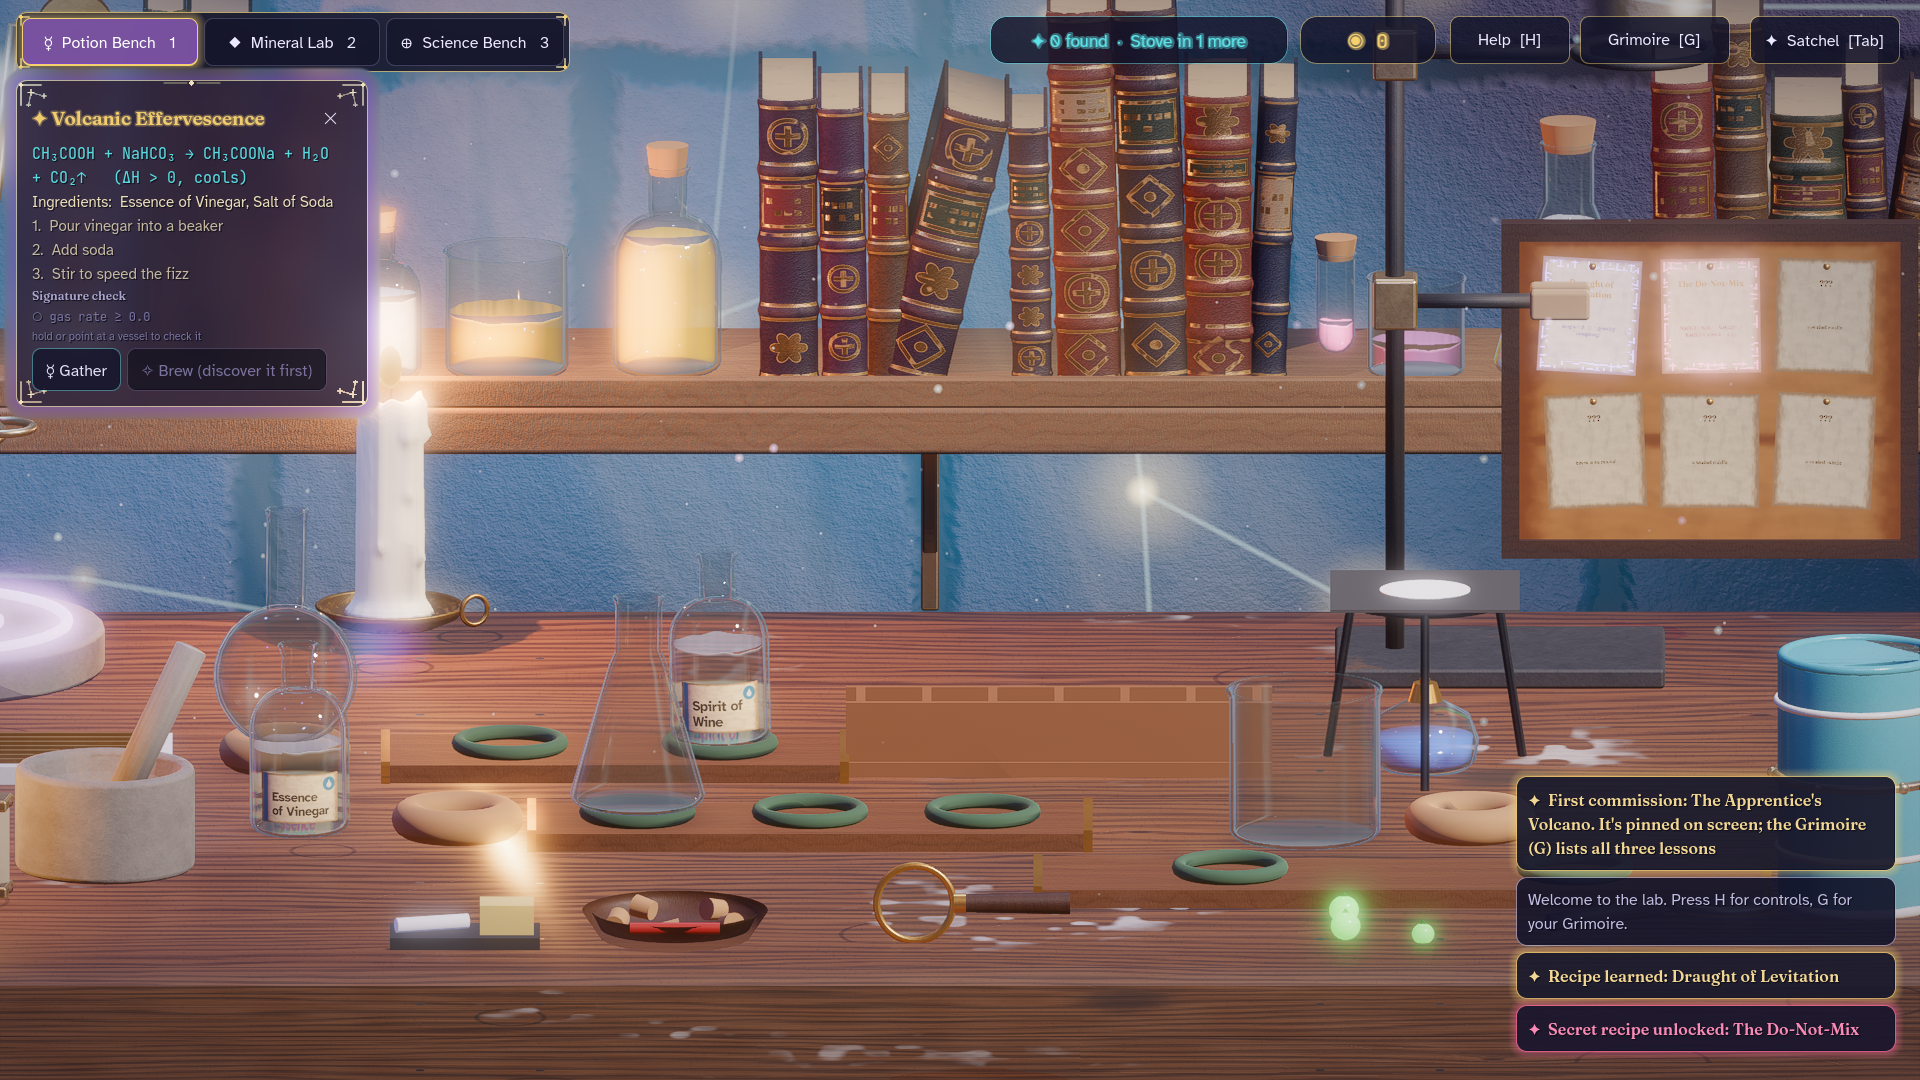
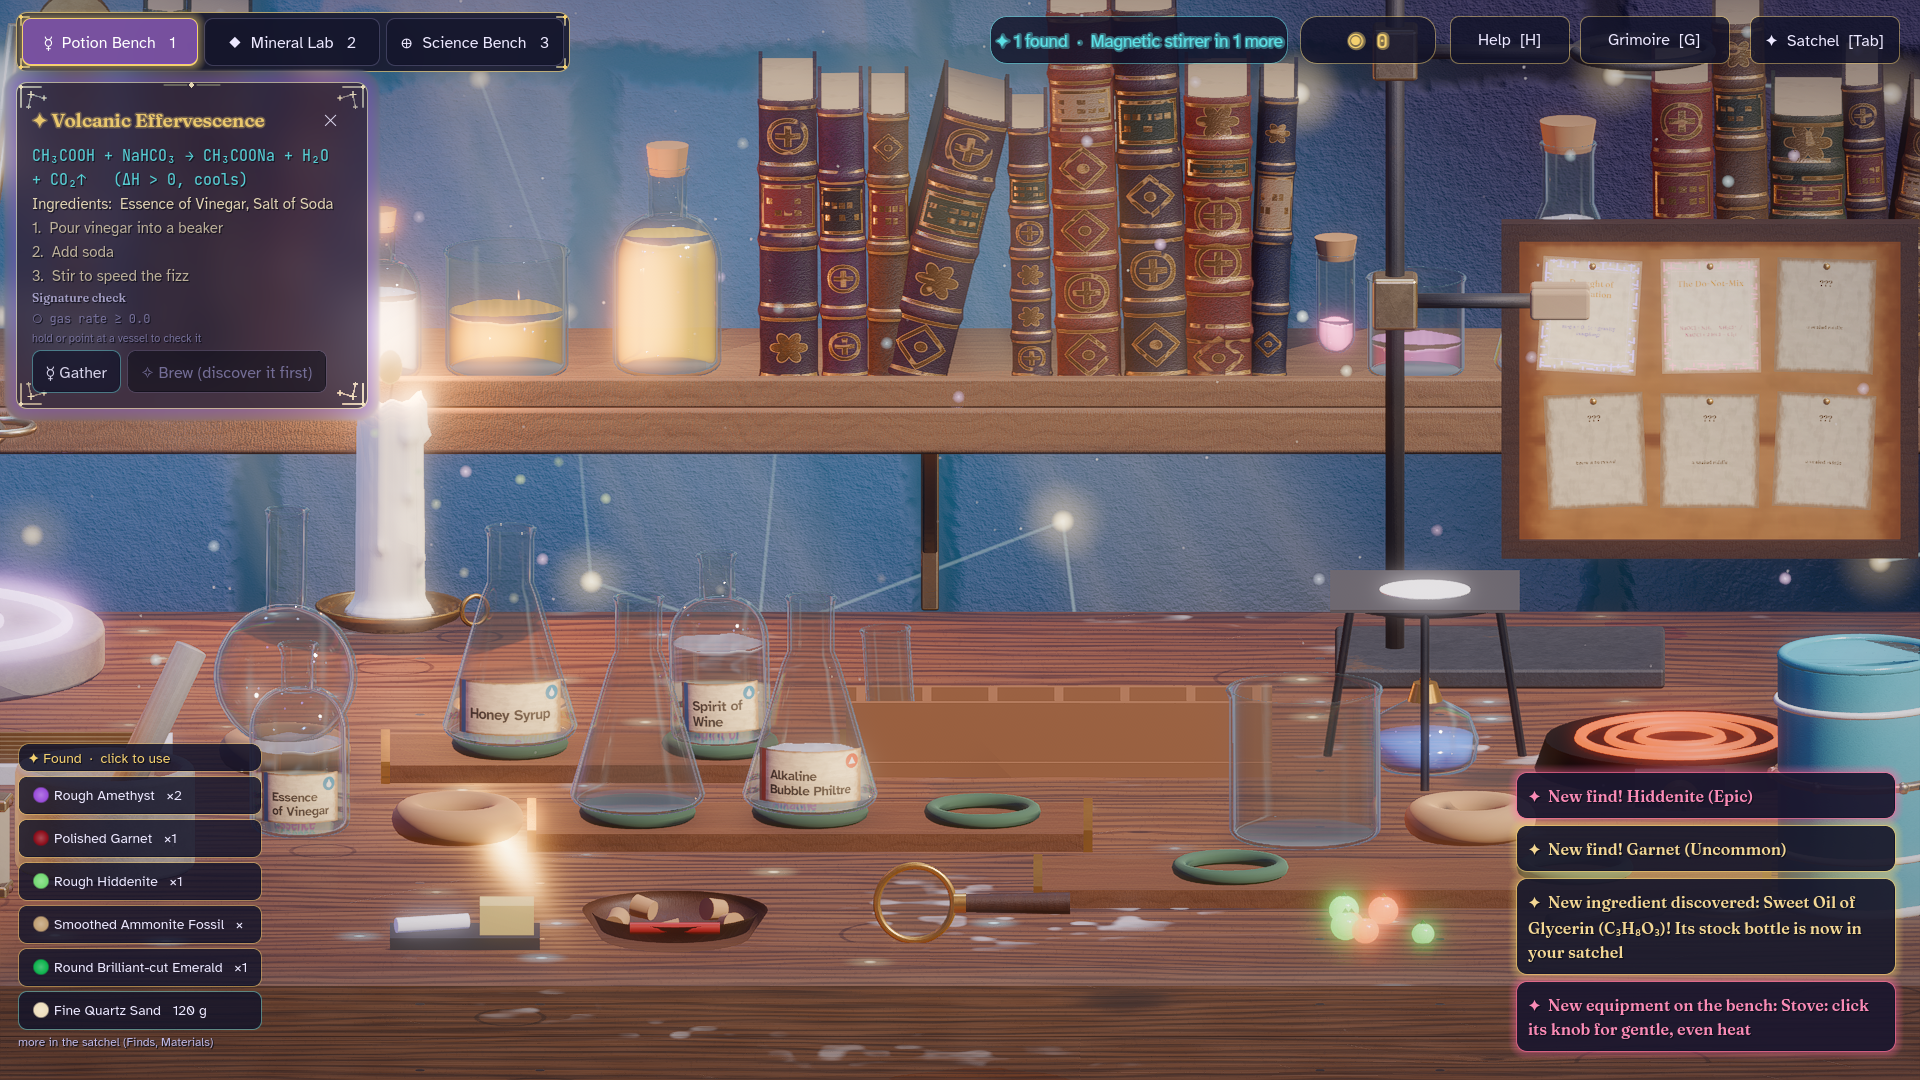
Found list, auto-packing at the Mineral Lab, deeper cosmic look, bigger starter kit
Leaving the Mineral Lab packs tray powders and loose finds into the satchel;
a Found list (bottom left) puts a scoop or stone in the hand with one click.
Aurora veils, sharper and denser wall stars, star specks in the bench top,
more motes. New labs also start with salt of soda, honey, soap, emberberries
and 60 coins.

diff --git a/CLAUDE.md b/CLAUDE.md
@@ -23,11 +23,11 @@ Every script, 3D scene (`.tscn`), resource (`.tres`), and shader (`.gdshader`) m
 
 > **Design audit (2026-11-21, docs/design_audit_handoff.md):** fonts bundled in `assets/fonts` (OFL; `CosmicTheme.display/body/mono/chalk/world_font`); toasts bottom-right; machine captions are `WorldPill` (shown while busy or for a few seconds after a change); bottle labels carry a category stamp (`label_icon.gdshader`). Every hotkey has a mouse prop: cork & wax dish, chalk + sponge (`BenchProps3D`), satchel edge tab, crate click loads the anvil, stirrer base click. `RecipeBook.proximity` scores how close a touched vessel is to an undiscovered recipe (shimmer >= 0.78, hint >= 0.92); recipes still only recognise results. `MagnifyingLens3D` + HUD lens panel. Rocks show a weak seam while the hammer aims (`Rock3D.seam_hit`, one-blow `critical_crack`); crusher flywheel and sifter momentum carry on after release. `GrimoireJournal.TUTORIAL_ORDERS` are three starter commissions. Check with `tests/perf/smoke_props.gd`. Rock collision hulls come from a vertex sample (`RockMeshes.hull_points`), never `create_convex_shape(true, true)` (50-80 ms per rock); `tests/perf/probe_lab_lag.gd` times rock spawns and cracks.
 
-> **Discovery mode (2026-11-21, owner request):** a new lab starts with a burner, a beaker, two empty flasks, the tap, vinegar, spirit of wine and glowberries (`DiscoveryProgress`, child of `GrimoireJournal`, saved in the `discovery` section of the grimoire save). Any substance that shows up in a vessel (>= 0.8 g) is learned and its satchel stock unlocks; locked satchel rows read "???" with a hint derived from data (`hint_for`: which rock crushes to which powder, and whether it dissolves in water or reacts with vinegar), or a coin price when no mineral route exists. Discoveries unlock equipment (`EQUIPMENT_STEPS`: stove, stirrer, tools) and glassware counts. Mineral routes are ordinary substance data (`tools/substances_minerals.py` PATCH: rock salt -> brine, luminite -> moonwater, firepepper -> salamander oil; halite rock crust carries salt of soda). Off for tests and demo renders (launch args); `tests/perf/smoke_discovery.gd` turns it on with `persist = false`. The Mineral Lab only hands out rocks, sand bags, finds, empty glass and the lens (`InventoryStore.station_block_reason`); a satchel click puts the item in the hand; machine intakes push out what they don't take (`MachineIntake.wants`).
+> **Discovery mode (2026-11-21, owner request):** a new lab starts with a burner, a beaker, two empty flasks, the tap, vinegar, spirit of wine, salt of soda, honey, soap, glowberries, emberberries and 60 coins (`STARTER_SUBSTANCES`, `STARTER_COINS`) (`DiscoveryProgress`, child of `GrimoireJournal`, saved in the `discovery` section of the grimoire save). Any substance that shows up in a vessel (>= 0.8 g) is learned and its satchel stock unlocks; locked satchel rows read "???" with a hint derived from data (`hint_for`: which rock crushes to which powder, and whether it dissolves in water or reacts with vinegar), or a coin price when no mineral route exists. Discoveries unlock equipment (`EQUIPMENT_STEPS`: stove, stirrer, tools) and glassware counts. Mineral routes are ordinary substance data (`tools/substances_minerals.py` PATCH: rock salt -> brine, luminite -> moonwater, firepepper -> salamander oil; halite rock crust carries salt of soda). Off for tests and demo renders (launch args); `tests/perf/smoke_discovery.gd` turns it on with `persist = false`. The Mineral Lab only hands out rocks, sand bags, finds, empty glass and the lens (`InventoryStore.station_block_reason`); a satchel click puts the item in the hand; machine intakes push out what they don't take (`MachineIntake.wants`).
 
 > **Cinematics & labels (2026-11-21):** `GemShowcase.play(stone, kicker, title, subtitle, rarity)` shows a hero shot in its own studio world (softbox sky `studio_sky.gdshader`, velvet backdrop, letterbox, title card); played when a gem is faceted and for special finds (Epic+, a new Rare, a first fossil). Off under `--script`. `FacetLoupe` is the round close-up inset while a stone is on the polisher or faceter. Bottle labels are `BottleLabel3D`: one curved strip that follows the glass mesh, with the stamp and text painted into a SubViewport texture (no Label3D). Glassware is built at 128 segments (`tools/blender/build_glassware.py`); vessel hulls are cached per mesh.
 
-> **Cosmic look (2026-11-21, owner request: brighter, magical):** `CosmicAtmosphere` (`visuals_3d/vfx/cosmic_atmosphere.gd`, under Atmosphere) adds star motes and shadowless violet/cyan accent lights per station; `stone_wall.gdshader` `cosmic_strength` draws a twinkling star map with constellation lines and nebula in the wall; sky/ambient are indigo-violet, exposure 1.08, vignette indigo. Ingredient rocks (`tools/minerals_more.py`, last block) crush to powders with routes to shelf reagents; `DiscoveryProgress.hint_for` derives hints (dissolve, vinegar, roast, two-step) and the HUD shows the discovery tally.
+> **Cosmic look (2026-11-21, owner request: brighter, magical):** `CosmicAtmosphere` (`visuals_3d/vfx/cosmic_atmosphere.gd`, under Atmosphere) adds star motes and shadowless violet/cyan accent lights per station; `stone_wall.gdshader` `cosmic_strength` draws a twinkling star map with constellation lines and nebula in the wall; sky/ambient are indigo-violet, exposure 1.08, vignette indigo. Ingredient rocks (`tools/minerals_more.py`, last block) crush to powders with routes to shelf reagents; `DiscoveryProgress.hint_for` derives hints (dissolve, vinegar, roast, two-step) and the HUD shows the discovery tally. Leaving the Mineral Lab packs tray powders and loose finds into the satchel (`InventoryStore.pack_up_lab`); the HUD Found list (bottom left, `recent_found`) puts a scoop or stone in the hand with one click. Aurora veils (`aurora_veil.gdshader`) and bench star specks (`wood_bench.gdshader` `star_inlay`) are part of the cosmic look.
 
 * **Engine:** Godot 4.4+ (3D) with **Jolt Physics 3D** enabled as the default physics backend.
 * **Languages:**
